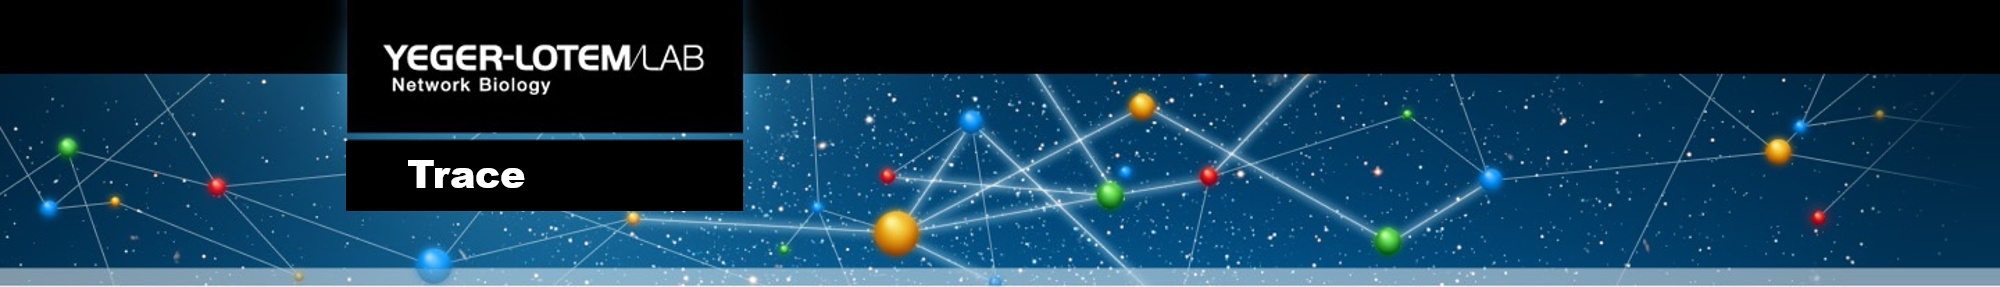
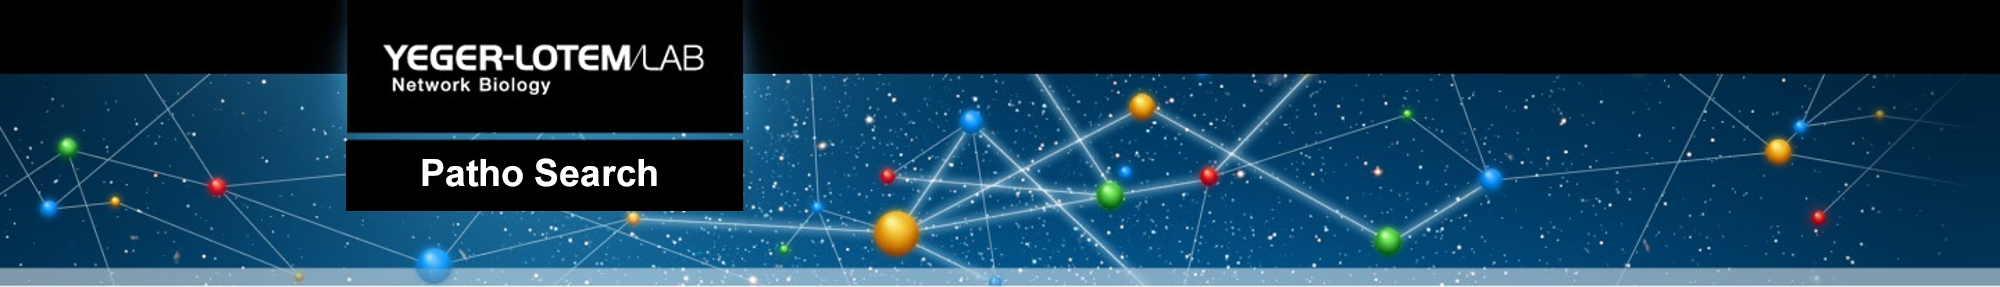
Change name to Patho Search

Changed region(s): [[0.186, 0.5575, 0.341, 0.669]]

diff --git a/Client/src/components/content/home.js b/Client/src/components/content/home.js
@@ -42,23 +42,23 @@ const onFileUpload = (e) => {
     inputFormat === 'simpleFile'
       ? genes = genes.split(/\r\n|\n|\r/)
       : null
-    
+
     history.push({
       pathname: '/results',
       data: { tissue: selectedTissue, genes, inputFormat, genomeVersion }
     })
   }
-  
+
   const onGenomeVersionSelect = (e, { value }) => {
     setGenomeVersion(value)
   }
-  
+
   return (
     <div className="ui ui raised padded container segment">
       <form className="ui form" id="homeForm">
 
         <div className="ui dividing header">
-          <h1>Welcome to the Whateveristhename</h1>
+          <h1>Welcome to the Patho Search</h1>
           <p>Need a header about something</p>
         </div>
 
@@ -88,7 +88,7 @@ const onFileUpload = (e) => {
               <label htmlFor="organism">Upload your input Genes with one of the following:</label>
             </Grid.Column>
           </Grid.Row>
-          
+
           <Segment placeholder size='big' style={{width: "100%"}}>
             <Grid stackable textAlign='center' columns={3} divided >
               <Grid.Column>
@@ -155,7 +155,7 @@ const onFileUpload = (e) => {
           </Segment>
 
           <Grid.Row>
-            <Button 
+            <Button
               color="blue" icon labelPosition="right" style={{margin: 'auto'}}
               disabled={!submissionPerm}
               onClick={onSubmit}>

diff --git a/Client/src/App.js b/Client/src/App.js
@@ -25,14 +25,14 @@ const App = (props) => {
           {children}
         </div>
       ) : (
-      <div className="ui grid container">
-        <div className="two wide left floated column">
-          <MenuWrapper items={MenuItems} />
+        <div className="ui grid container">
+          <div className="two wide left floated column">
+            <MenuWrapper items={MenuItems} />
+          </div>
+          <div className="twelve wide right floated column">
+            {children}
+          </div>
         </div>
-        <div className="twelve wide right floated column">
-          {children}
-        </div>
-      </div>
       )}
       <Footer />
     </div>
